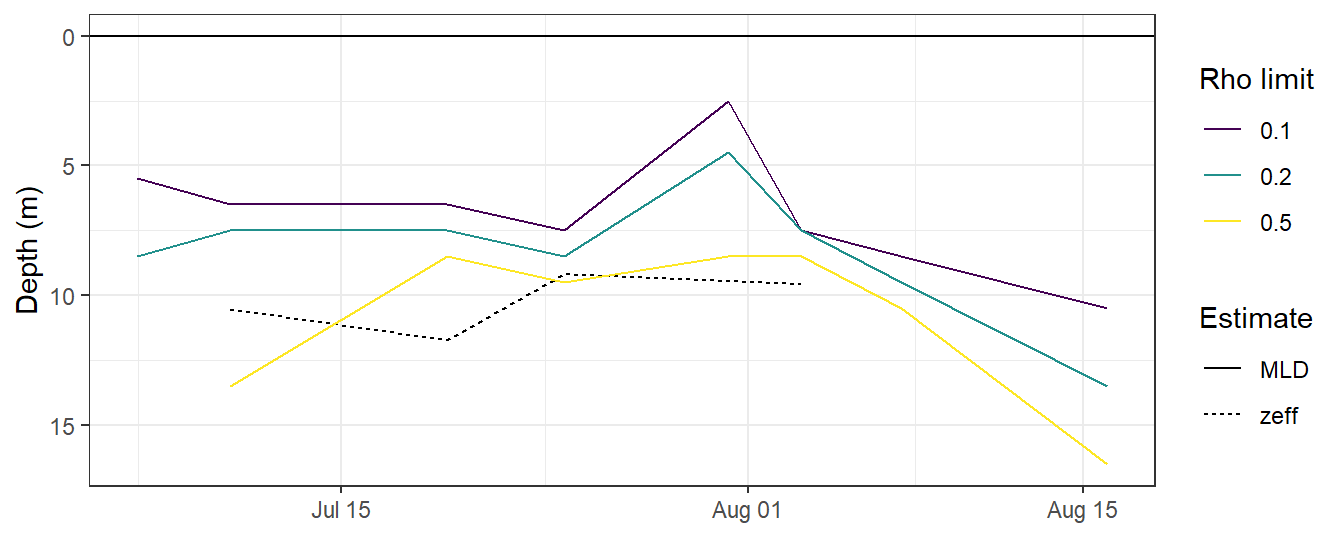
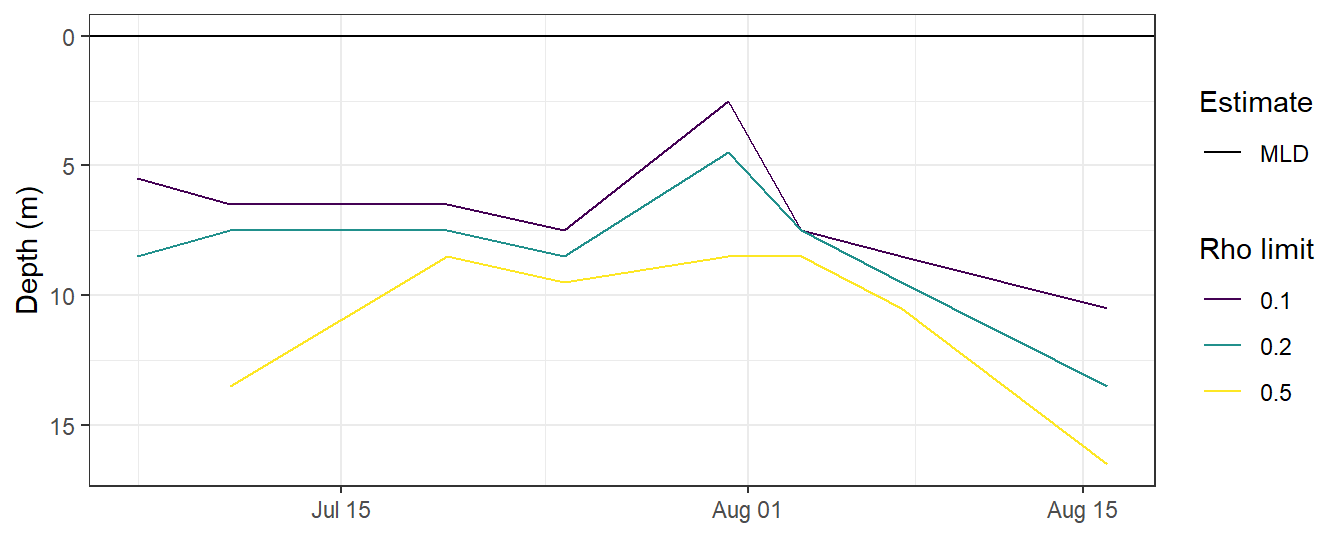
Build site.

Changed region(s): [[0.875, 0.1192, 1.0, 0.3575], [0.875, 0.5363, 0.9688, 0.8045], [0.875, 0.3873, 1.0, 0.4767]]

diff --git a/docs/BloomSail_surface.html b/docs/BloomSail_surface.html
@@ -555,16 +555,16 @@ This reproducible <a href="http://rmarkdown.rstudio.com">R Markdown</a> analysis
 <div class="panel panel-default">
 <div class="panel-heading">
 <p class="panel-title">
-<a data-toggle="collapse" data-parent="#workflowr-checks" href="#strongRepositoryversionstrongahrefhttpsgithubcomjensdanielmuellerBloomSailtree14c88481743ccd89635b30ae3f955b79ac7b2ec3targetblank14c8848a"> <span class="glyphicon glyphicon-ok text-success" aria-hidden="true"></span> <strong>Repository version:</strong> <a href="https://github.com/jens-daniel-mueller/BloomSail/tree/14c88481743ccd89635b30ae3f955b79ac7b2ec3" target="_blank">14c8848</a> </a>
+<a data-toggle="collapse" data-parent="#workflowr-checks" href="#strongRepositoryversionstrongahrefhttpsgithubcomjensdanielmuellerBloomSailtree9f738ebffc604e75ecf926c74849feac1b77fde0targetblank9f738eba"> <span class="glyphicon glyphicon-ok text-success" aria-hidden="true"></span> <strong>Repository version:</strong> <a href="https://github.com/jens-daniel-mueller/BloomSail/tree/9f738ebffc604e75ecf926c74849feac1b77fde0" target="_blank">9f738eb</a> </a>
 </p>
 </div>
[2 lines of base64/hex data omitted]
 <div class="panel-body">
 <p>
 Great! You are using Git for version control. Tracking code development and connecting the code version to the results is critical for reproducibility.
 </p>
 <p>
-The results in this page were generated with repository version <a href="https://github.com/jens-daniel-mueller/BloomSail/tree/14c88481743ccd89635b30ae3f955b79ac7b2ec3" target="_blank">14c8848</a>. See the <em>Past versions</em> tab to see a history of the changes made to the R Markdown and HTML files.
+The results in this page were generated with repository version <a href="https://github.com/jens-daniel-mueller/BloomSail/tree/9f738ebffc604e75ecf926c74849feac1b77fde0" target="_blank">9f738eb</a>. See the <em>Past versions</em> tab to see a history of the changes made to the R Markdown and HTML files.
 </p>
 <p>
 Note that you need to be careful to ensure that all relevant files for the analysis have been committed to Git prior to generating the results (you can use <code>wflow_publish</code> or <code>wflow_git_commit</code>). workflowr only checks the R Markdown file, but you know if there are other scripts or data files that it depends on. Below is the status of the Git repository when the results were generated:
@@ -573,7 +573,6 @@ Note that you need to be careful to ensure that all relevant files for the analy
 Ignored files:
     Ignored:    .Rhistory
     Ignored:    .Rproj.user/
-    Ignored:    analysis/figure/
     Ignored:    data/Finnmaid_2018/
     Ignored:    data/GETM/
     Ignored:    data/Maps/
@@ -622,6 +621,40 @@ Message
 </tr>
 </thead>
 <tbody>
+<tr>
+<td>
+Rmd
+</td>
+<td>
+<a href="https://github.com/jens-daniel-mueller/BloomSail/blob/9f738ebffc604e75ecf926c74849feac1b77fde0/analysis/BloomSail_surface.Rmd" target="_blank">9f738eb</a>
+</td>
+<td>
+jens-daniel-mueller
+</td>
+<td>
+2020-04-27
+</td>
+<td>
+removed zeff from MLD section
+</td>
+</tr>
+<tr>
+<td>
+html
+</td>
+<td>
+<a href="https://rawcdn.githack.com/jens-daniel-mueller/BloomSail/7d3888123172700dd007cf6679c399cb64600e35/docs/BloomSail_surface.html" target="_blank">7d38881</a>
+</td>
+<td>
+jens-daniel-mueller
+</td>
+<td>
+2020-04-27
+</td>
+<td>
+Build site.
+</td>
+</tr>
 <tr>
 <td>
 Rmd
@@ -1029,16 +1062,16 @@ library(metR)
 library(lubridate)</code></pre>
 <div id="approach" class="section level1">
 <h1><span class="header-section-number">1</span> Approach</h1>
-<p>In order to test how (and how well) the depth-integrated C<sub>T</sub> estimates can be reproduced if only surface CO2 data were available, the BloomSail observations were restricted to those made in surface water and following reconstruction approaches were tested:</p>
+<p>In order to test how (and how well) the depth-integrated C<sub>T</sub> estimates can be reproduced if only surface CO<sub>2</sub> data were available, the BloomSail observations were restricted to those made in surface water and following reconstruction approaches were tested:</p>
 <ul>
 <li>Mixed layer depth: Integration of surface observation across the MLD, assuming homogenious vertical patterns</li>
-<li>CT profile reconstruction: Vertical reconstruction of incremental C<sub>T</sub> changes based on profiles of incremental changes in temperature</li>
-<li>Temperature penetration depth: Integration of surface observation across the temperture penetration depth, assuming similar vertical extension as for CT drawdown.</li>
+<li>C<sub>T</sub> profile reconstruction: Vertical reconstruction of incremental C<sub>T</sub> changes based on profiles of incremental changes in temperature</li>
+<li>Temperature penetration depth: Integration of surface observation across the temperature penetration depth, assuming similar vertical extension as for C<sub>T</sub> drawdown.</li>
 </ul>
-<p>Note: The reconstruction of CT profiles and the integration across the temperature penetrations depth should produce very similar results. However, the latter avoids to create misinterpretable information about the vertical distribution of CT.</p>
+<p>Note: The reconstruction of C<sub>T</sub> profiles and the integration across the temperature penetration depth should produce very similar results. However, the latter avoids to create misinterpretable information about the vertical distribution of C<sub>T</sub>.</p>
 </div>
-<div id="sensor-data" class="section level1">
-<h1><span class="header-section-number">2</span> Sensor data</h1>
+<div id="data-base" class="section level1">
+<h1><span class="header-section-number">2</span> Data base</h1>
 <p>1m gridded, downcast profiles were used.</p>
 <pre class="r"><code>ts_profiles_ID &lt;-
   read_csv(here::here(&quot;Data/_merged_data_files&quot;, &quot;ts_profiles_ID_long_cum_MLD.csv&quot;))
@@ -1055,43 +1088,19 @@ ts_profiles_ID_long_cum &lt;- ts_profiles_ID_long_cum %&gt;%
   filter(var %in% c(&quot;CT&quot;, &quot;tem&quot;)) %&gt;% 
   mutate(ID = as.factor(ID)) %&gt;% 
   select(-date_ID)</code></pre>
-</div>
-<div id="removing-ct-at-depth" class="section level1">
-<h1><span class="header-section-number">3</span> Removing c<sub>T</sub> at depth</h1>
 <p>CO<sub>2</sub> data other than 3.5 m water depth were removed.</p>
 <pre class="r"><code>ts_profiles_ID &lt;- ts_profiles_ID %&gt;% 
   mutate(CT = if_else(dep == 3.5, CT, NaN),
          rho_lim = as.factor(rho_lim))</code></pre>
 </div>
 <div id="mld-approach" class="section level1">
-<h1><span class="header-section-number">4</span> MLD approach</h1>
+<h1><span class="header-section-number">3</span> MLD approach</h1>
 <p>MLD calculation was previously described in the <a href="https://jens-daniel-mueller.github.io/BloomSail/CT_dynamics.html">CT dynamics</a> chapter.</p>
 <div id="timeseries" class="section level2">
-<h2><span class="header-section-number">4.1</span> Timeseries</h2>
-<p>For comparison to MLD, the effective penetration depth of NCP, z<sub>eff</sub>, was calculated as the ratio of the inremental, depth-integrated change of C<sub>T</sub>, divided by the change in surface C<sub>T</sub>, for all cases where the change in surface C<sub>T</sub> was negative.</p>
-<pre class="r"><code>ts_profiles_ID_surface &lt;- ts_profiles_ID %&gt;% 
-  filter(sign==&quot;neg&quot;,
-         rho_lim == &quot;0.5&quot;,
-         dep == 3.5) %&gt;% 
-  group_by(ID, date_time_ID) %&gt;% 
-  summarise(CT_diff_surf = mean(CT_diff, na.rm = TRUE)) %&gt;% 
-  ungroup()
-
-ts_profiles_ID_i &lt;- ts_profiles_ID %&gt;% 
-  filter(sign==&quot;neg&quot;,
-         rho_lim == &quot;0.5&quot;) %&gt;% 
-  group_by(ID, date_time_ID) %&gt;% 
-  summarise(CT_diff_i = sum(CT_diff, na.rm = TRUE))
-
-zeff &lt;- inner_join(ts_profiles_ID_surface, ts_profiles_ID_i)
-rm(ts_profiles_ID_surface, ts_profiles_ID_i)
-
-zeff &lt;- zeff %&gt;% 
-  mutate(zeff = CT_diff_i / CT_diff_surf)</code></pre>
+<h2><span class="header-section-number">3.1</span> Timeseries</h2>
 <pre class="r"><code>ts_profiles_ID %&gt;% 
   ggplot()+
   geom_hline(yintercept = 0)+
-  geom_line(data = zeff, aes(date_time_ID, zeff, linetype=&quot;zeff&quot;))+
   geom_line(aes(date_time_ID, MLD, col=rho_lim, linetype=&quot;MLD&quot;))+
   scale_y_reverse()+
   scale_color_viridis_d(name=&quot;Rho limit&quot;)+
@@ -1102,7 +1111,7 @@ zeff &lt;- zeff %&gt;%
 <pre class="r"><code>rm(zeff)</code></pre>
 </div>
 <div id="ict-calculation" class="section level2">
-<h2><span class="header-section-number">4.2</span> iC<sub>T</sub> calculation</h2>
+<h2><span class="header-section-number">3.2</span> iC<sub>T</sub> calculation</h2>
 <p>Integrated C<sub>T</sub> depletion was calculated as the product of observed incremental C<sub>T</sub> changes in surface waters and the respective mixed layer depth.</p>
 <pre class="r"><code>ts_profiles_ID_surface &lt;- ts_profiles_ID %&gt;% 
   filter(dep==3.5) %&gt;% 
@@ -1113,7 +1122,7 @@ zeff &lt;- zeff %&gt;%
   ungroup()</code></pre>
 </div>
 <div id="incremental-and-cumulative-timeseries" class="section level2">
-<h2><span class="header-section-number">4.3</span> Incremental and cumulative timeseries</h2>
+<h2><span class="header-section-number">3.3</span> Incremental and cumulative timeseries</h2>
 <p>Total incremental and cumulative C<sub>T</sub> changes inbetween cruise dates were calculated.</p>
 <pre class="r"><code>p_iCT &lt;- ts_profiles_ID_surface %&gt;% 
   ggplot(aes(date_time_ID, iCT_diff, fill= rho_lim))+
@@ -1138,14 +1147,14 @@ p_iCT_cum &lt;- ts_profiles_ID_surface %&gt;%
 
 (p_iCT / p_iCT_cum)+
   plot_layout(guides = &#39;collect&#39;)</code></pre>
-<p><img src="figure/BloomSail_surface.Rmd/iCT_timeseries_MLD-1.png" width="672" style="display: block; margin: auto;" /></p>
+<p><img src="figure/BloomSail_surface.Rmd/MLD_iCT_time_series-1.png" width="672" style="display: block; margin: auto;" /></p>
 <pre class="r"><code>rm(p_iCT, p_iCT_cum)
 
 rm(ts_profiles_ID, ts_profiles_ID_surface)</code></pre>
 </div>
 </div>
 <div id="temperature-approach" class="section level1">
-<h1><span class="header-section-number">5</span> Temperature approach</h1>
+<h1><span class="header-section-number">4</span> Temperature approach</h1>
 <pre class="r"><code>ts_profiles_ID &lt;-
   read_csv(here::here(&quot;Data/_merged_data_files&quot;, &quot;ts_profiles_ID.csv&quot;))
 
@@ -1154,7 +1163,7 @@ ts_profiles_ID &lt;- ts_profiles_ID %&gt;%
          ID = as.factor(ID)) %&gt;% 
   select(-date_ID)</code></pre>
 <div id="ct-vs-temperature" class="section level2">
-<h2><span class="header-section-number">5.1</span> C<sub>T</sub> vs temperature</h2>
+<h2><span class="header-section-number">4.1</span> C<sub>T</sub> vs temperature</h2>
 <p>As primary production (negative changes in C<sub>T</sub>) and increase in seawater temperature have a common driver (light), the relation between both changes was investigated.</p>
 <pre class="r"><code>ts_profiles_ID_diff &lt;- ts_profiles_ID %&gt;% 
   drop_na() %&gt;% 
@@ -1173,7 +1182,7 @@ ts_profiles_ID_diff %&gt;%
 <p><img src="figure/BloomSail_surface.Rmd/CT_and_temperature_changes_in_surface-1.png" width="672" style="display: block; margin: auto;" /></p>
 </div>
 <div id="reconstruction-of-ct-dynamics" class="section level2">
-<h2><span class="header-section-number">5.2</span> Reconstruction of C<sub>T</sub> dynamics</h2>
+<h2><span class="header-section-number">4.2</span> Reconstruction of C<sub>T</sub> dynamics</h2>
 <p>The ratio of the incremental change of C<sub>T</sub> with temperature at the seasurface was applied to calculate the C<sub>T</sub> in other water depth based on the known change in temperature.</p>
 <pre class="r"><code>ts_profiles_ID_diff &lt;- ts_profiles_ID_diff %&gt;% 
   select(ID, factor)
@@ -1203,7 +1212,7 @@ ts_profiles_ID &lt;- ts_profiles_ID %&gt;%
   ungroup()</code></pre>
 </div>
 <div id="profiles-of-incremental-changes" class="section level2">
-<h2><span class="header-section-number">5.3</span> Profiles of incremental changes</h2>
+<h2><span class="header-section-number">4.3</span> Profiles of incremental changes</h2>
 <p>Changes of seawater parameters at each depth were reconstructed from one cruise day to the next and divided by the number of days inbetween.</p>
 <pre class="r"><code>ts_profiles_ID_long %&gt;% 
   arrange(dep) %&gt;% 
@@ -1218,7 +1227,7 @@ ts_profiles_ID &lt;- ts_profiles_ID %&gt;%
 <p><img src="figure/BloomSail_surface.Rmd/incremental_changes_profiles-1.png" width="672" style="display: block; margin: auto;" /></p>
 </div>
 <div id="profiles-of-cumulative-changes" class="section level2">
-<h2><span class="header-section-number">5.4</span> Profiles of cumulative changes</h2>
+<h2><span class="header-section-number">4.4</span> Profiles of cumulative changes</h2>
 <p>Cumulative changes of seawater parameters were calculated at each depth relative to the first cruise day on July 5.</p>
 <pre class="r"><code>ts_profiles_ID_long %&gt;% 
   arrange(dep) %&gt;% 
@@ -1233,10 +1242,10 @@ ts_profiles_ID &lt;- ts_profiles_ID %&gt;%
 <p><img src="figure/BloomSail_surface.Rmd/cumulative_changes_profiles-1.png" width="672" style="display: block; margin: auto;" /></p>
 </div>
 <div id="hovmoeller-plots" class="section level2">
-<h2><span class="header-section-number">5.5</span> Hovmoeller plots</h2>
+<h2><span class="header-section-number">4.5</span> Hovmoeller plots</h2>
 <p>Hoevmoeller plots were generated for the reconstructed daily and cumulative changes in C<sub>T</sub>. Absolute values are not reproducible with this approach. Furthermore, it meets our expectations</p>
 <div id="daily-changes" class="section level3">
-<h3><span class="header-section-number">5.5.1</span> Daily changes</h3>
+<h3><span class="header-section-number">4.5.1</span> Daily changes</h3>
 <pre class="r"><code>bin_CT &lt;- 2.5
 
 ts_profiles_ID_long %&gt;%
@@ -1264,7 +1273,7 @@ Hovmoeller plots of daily reconstructed changes in C<sub>T</sub> and temperature
 <pre class="r"><code>rm(bin_CT)</code></pre>
 </div>
 <div id="cumulative-changes" class="section level3">
-<h3><span class="header-section-number">5.5.2</span> Cumulative changes</h3>
+<h3><span class="header-section-number">4.5.2</span> Cumulative changes</h3>
 <pre class="r"><code>bin_CT &lt;- 20
 
 ts_profiles_ID_long %&gt;%
@@ -1293,7 +1302,7 @@ Hovmoeller plots of daily reconstructed changes in C<sub>T</sub> and temperature
 </div>
 </div>
 <div id="ict-time-series" class="section level2">
-<h2><span class="header-section-number">5.6</span> iC<sub>T</sub> time series</h2>
+<h2><span class="header-section-number">4.6</span> iC<sub>T</sub> time series</h2>
 <p>Total incremental and cumulative C<sub>T</sub> changes inbetween cruise dates were calculated for the upper 10 m of the water body.</p>
 <pre class="r"><code>iCT_10 &lt;- ts_profiles_ID_long %&gt;%
   filter(dep &lt; 10, 
@@ -1317,8 +1326,8 @@ iCT_10 %&gt;%
 <p><img src="figure/BloomSail_surface.Rmd/integrated_NCP-1.png" width="672" style="display: block; margin: auto;" /></p>
 </div>
 </div>
-<div id="heat-and-ct-penetration-depth" class="section level1">
-<h1><span class="header-section-number">6</span> Heat and C<sub>T</sub> penetration depth</h1>
+<div id="heat-penetration-depth" class="section level1">
+<h1><span class="header-section-number">5</span> Heat penetration depth</h1>
 <p>To investigate the link between temperature rise and CT drawdown, we estimated the mean penetration depth of both parameters, which was defined as the surface change (0-6m) devided by the integrated change across depth. To derive the integrated values, we summed up all negative changes in CT and temperature. For temperature we limited the integration to the depth at which the cummulative signal on July 23 was below 5% of the surface signal.</p>
 <pre class="r"><code># surface values
 
